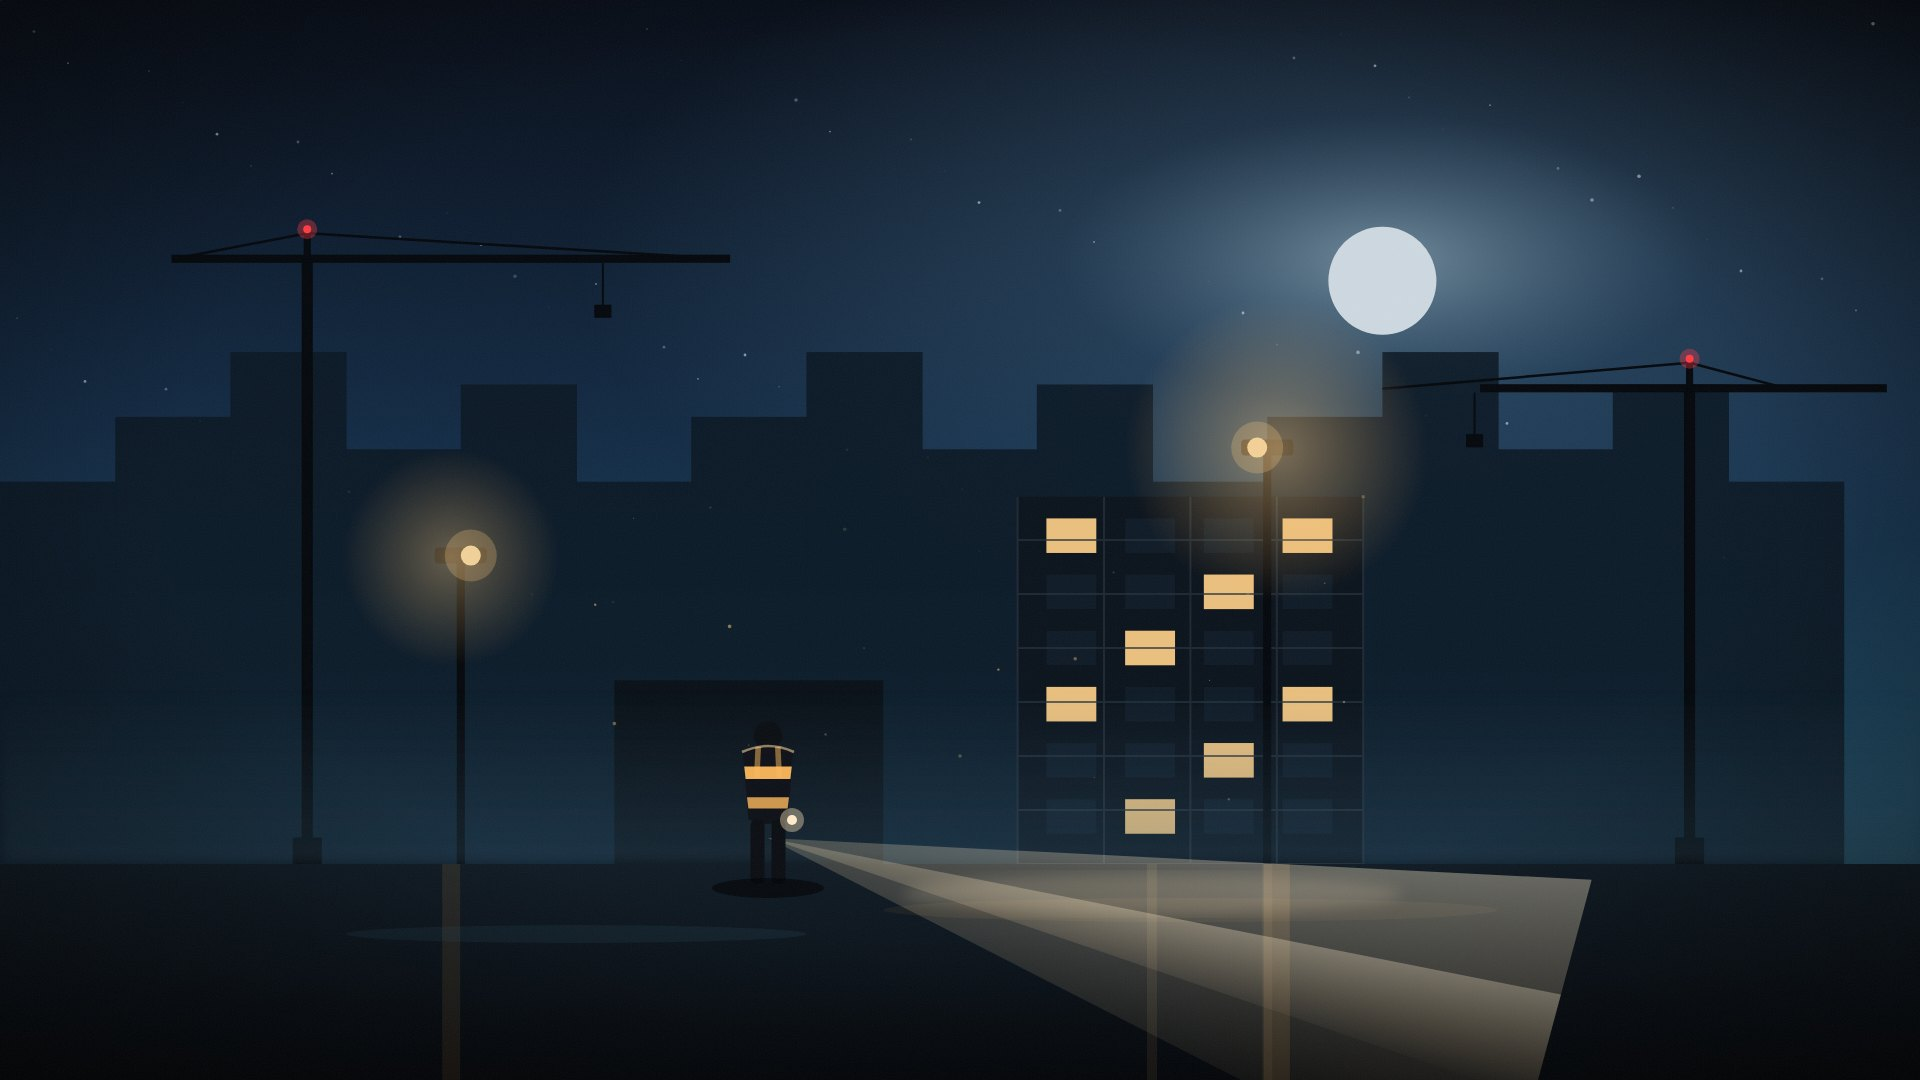
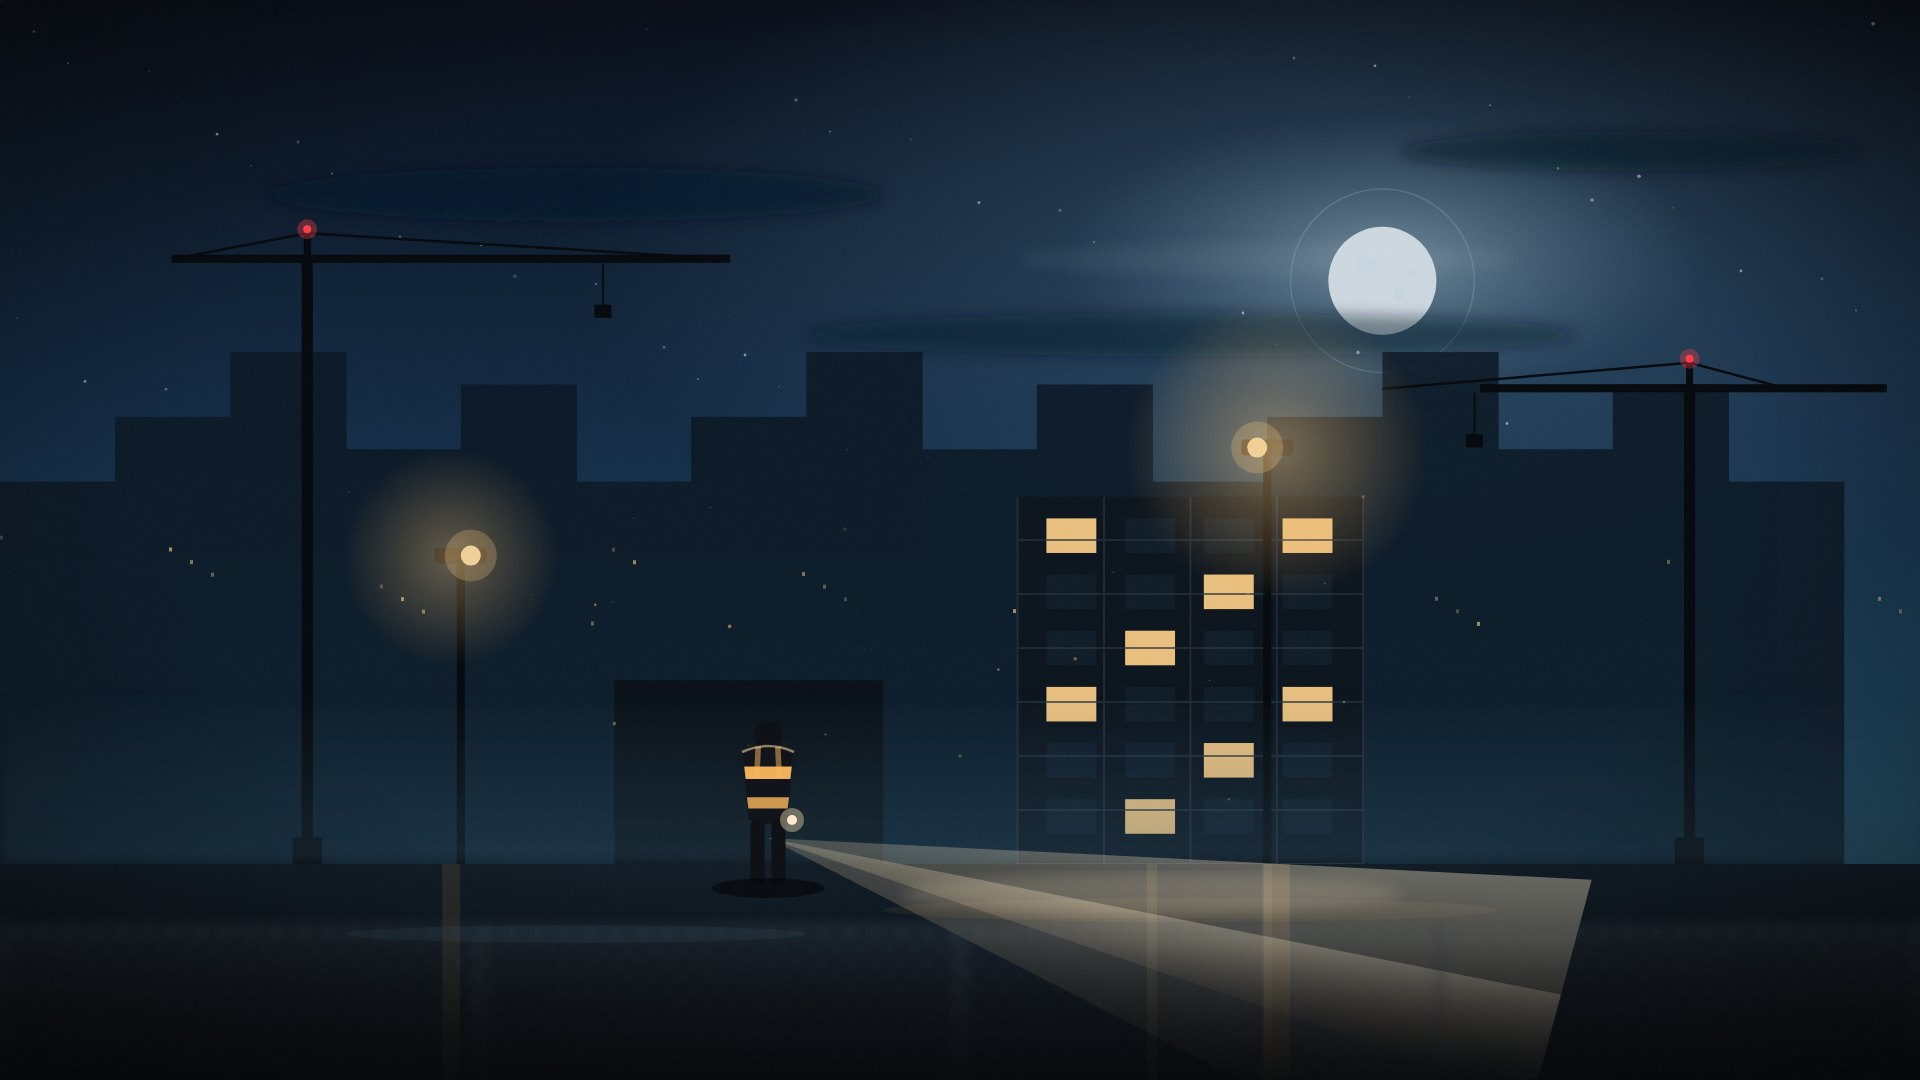
Hero: månehalo/kratere, natte-skyer, fjerne bylys, uskarpt forgrunds-hegn og blød bund-fade

Changed region(s): [[0.6562, 0.8861, 0.8125, 1.0], [0.5938, 0.275, 0.8125, 0.3361]]

diff --git a/components/CinematiskHero.tsx b/components/CinematiskHero.tsx
@@ -152,6 +152,12 @@ export function CinematiskHero() {
         </div>
       </motion.div>
 
+      {/* Blød overgang til næste sektion */}
+      <div
+        aria-hidden
+        className="pointer-events-none absolute inset-x-0 bottom-0 h-40 bg-gradient-to-b from-transparent to-ink"
+      />
+
       {/* Scroll-cue */}
       <div
         aria-hidden